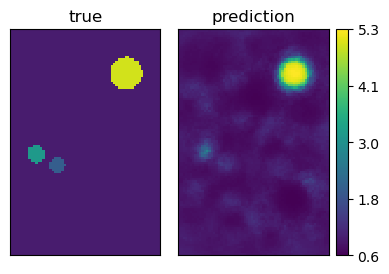
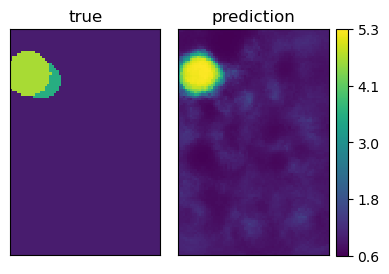
Changes to be committed: 	modified:   Figures/AppendixNew/CNN3/ex6/mu.png 	new file:   Figures/AppendixNew/CNN3/munumbers.txt 	new file:   Figures/Results2New/munumbers.txt 	new file:   Figures/Results3New/munumbers.txt 	modified:   Figures/prepostnew.png 	modified:   Figures/registnew.png 	modified

diff --git a/TeX_ML/ei_ml_arxiv/ei_ml_arxiv2.tex b/TeX_ML/ei_ml_arxiv/ei_ml_arxiv2.tex
@@ -56,7 +56,7 @@
 %}  
 \begin{document}
 % bib
-\title{Elasticity imaging using a Convolutional Neural Network: Initial results}
+\title{Elasticity imaging using a Convolutional Neural Network}
 \author{Nachiket Gokhale\footnote{The author is very grateful to Paul Barbone (Professor, Mechanical Engineering, Boston University, Boston, MA, USA.) for patiently answering many questions about finite elements and for his constructive comments on an earlier version of this document. Conversations with Arnab Majumdar (ArcVisions, Kolkata, India), Michael Richards (Assistant Professor, Department of Biomedical Engineering, Kate Gleason College of Engineering, Rochester Institute of Technology, Rochester, NY, USA) and Mandar Kulkarni (Houston, TX, USA) are gratefully acknowledged and appreciated.}\\gokhalen@gmail.com\\Pune, India.}
 \date{\today}
 \maketitle
@@ -124,7 +124,7 @@ In this work, the finite element solver \cite{misc:fypy} and associated scripts 
 \subsection{Review}
 In recent years, neural networks have been applied to various applications such as image classification \cite{paper:hinton2017}, hand written digit recognition \cite{paper:kulkarni2018}, solving differential equations and symbolic integration \cite{misc:lample2019}, solving complex partial differential equations such as the Navier-Stokes equation \cite{misc:anandkumar2020}, self-driving cars \cite{misc:agnihotri2019,misc:nvidiaselfdriving2016}, chaos \cite{paper:pathak2018}, natural language processing \cite{misc:googlenlp}, face recognition \cite{conf:taigman2014} and playing board games such as chess \cite{paper:alphazero}. Several effective Machine Learning frameworks such as Google's TensorFlow \cite{misc:tensorflow} (which we use in this work), Facebook's PyTorch \cite{incollect:pytorch}, Scikit-Learn \cite{paper:scikit-learn} are freely available. See \cite{misc:compdeep} for a complete list. We do not cover the theory of neural networks in this work. We refer the interested reader to \cite{book:aggarwal,book:goodfellow,book:chollet,misc:cs231n,misc:andrewng,misc:udemy} and references therein for detailed information about neural networks.
 \subsection{Neural networks and elasticity imaging}
-Given the success achieved by neural networks on the wide variety of applications cited in the previous section, it is natural to explore the application of neural networks to the inverse problem of elasticity imaging and several recent efforts \cite{paper:pateloberai2019,misc:gu2020,paper:hoeriginsana2016} have done so. In \cite{paper:pateloberai2019}, the authors use a convolutional neural network to classify specimens into elastically heterogeneous or elastically nonlinear. In \cite{paper:hoeriginsana2016}, the authors use a neural network to estimate strains and stress and then calculate elastic parameters. In \cite{misc:gu2020}, the authors use a neural network which predicts elasticity distributions using residual force maps to update the weights of the neural network.
+Given the success achieved by neural networks on the wide variety of applications cited in the previous section, it is natural to explore the application of neural networks to the inverse problem of elasticity imaging and several recent efforts \cite{paper:pateloberai2019,misc:gu2020,paper:hoeriginsana2016} have done so. In \cite{paper:pateloberai2019}, the authors use a convolutional neural network to classify specimens into elastically heterogeneous or elastically nonlinear. Their goal is to move directly from displacements to diagnosis, circumventing the solution of the elasticity imaging inverse problem. In \cite{paper:hoeriginsana2016}, the authors use a neural network to estimate strains and stress and then calculate elastic parameters. In \cite{misc:gu2020}, the authors use a neural network which predicts elasticity distributions using residual force maps to update the weights of the neural network.
 
 In contrast, in this work we compute the shear modulus field from the displacement or strain field using a CNN\footnote{We choose CNNs as opposed to other types of neural networks because of the success they have achieved in image classification \cite{paper:hinton2017}.}. There are no physical constraints involved in our work. It is purely a mapping problem from the space of displacement or strain fields to the space of the shear modulus fields. The input data for our CNN is a set of strain or displacement fields or components thereof. For each input there is a known corresponding target shear modulus field. Starting from an initial random guess of the weights, the CNN predicts shear modulus fields, compares them with the target fields to compute the loss function and its gradient with respect to the weights of the neural network. The weights are updated using the gradient in an appropriate optimization algorithm such as Adam \cite{misc:kingma2017adam}. Thus the CNN learns weights for its filters and other parameters. Using this learned information, the CNN is able to predict a shear modulus field from the input data of strain or displacement fields which is seen in figure (\ref{fig:schematic_inv}).\\
 \subsection{Need for neural networks}
@@ -158,13 +158,13 @@ Since we are working with almost incompressible linear elasticity, we know \cite
 \begin{align}
   \epsilon_{xx}+\epsilon_{yy}\approx{0} \implies \pdd{u_x}{x} + \pdd{u_y}{y} \approx{0} \label{eqn:strainincomp}. 
 \end{align}
-In addition, since our problem setup is much closer to a compression rather than shear problem, $\epsilon_{xy}$ is close to zero almost everywhere. Furthermore, $\epsilon_{xy}$ is noisy in practice because it involves differentiating $u_{x}$ which is often known inaccurately. We therefore choose to not work with $\epsilon_{xy}$. Equation (\ref{eqn:strainincomp}) links $\epsilon_{xx}$ with $\epsilon_{yy}$ and also $u_x$ with $u_y$. Therefore, effectively, there is only one independent component of strain or displacement. In elasticity imaging, we typically choose the displacement component along the direction of compression because it can be estimated much more accurately than the transverse component. Since our compression is along the $y$ direction, we therefore choose $u_y$ and $\epsilon_{yy}$ as the independent components of displacement and strain and we restrict our attention to only single channel images which represent either $u_y$ or $\epsilon_{yy}$.
+In addition, since our problem setup is much closer to a compression rather than shear problem, $\epsilon_{xy}$ is close to zero almost everywhere. Furthermore, $\epsilon_{xy}$ is noisy in practice because it involves differentiating $u_{x}$ which is often known inaccurately. We therefore choose to not work with $\epsilon_{xy}$. Equation (\ref{eqn:strainincomp}) links $\epsilon_{xx}$ with $\epsilon_{yy}$ and also $u_x$ with $u_y$. Therefore, effectively, there is only one independent component of strain or displacement. In elasticity imaging using ultrasound, we typically choose the displacement component along the direction of ultrasound propagation because it can be estimated much more accurately than the transverse component. In this work, we choose $u_y$ and $\epsilon_{yy}$ as the independent components of displacement and strain and we restrict our attention to only single channel images which represent either $u_y$ or $\epsilon_{yy}$.
 
 The \textit{loss function} is \textit{mean squared error} and the optimizer is \textit{Adam} \cite{misc:kingma2017adam} with default TensorFlow settings. After training, we choose the model with the best validation loss make predictions. No regularization or dropout is used.
 
 We train three CNNs whose parameters are are listed in table (\ref{table:cnnparams}). There are either one, two or three inclusions in the data used to train CNN1 and CNN2 and there is exactly one inclusion in the data used to train CNN3. CNN1 is tested on data similar to its training data and a cross shaped example which lies outside its training data. CNN2 is tested on data similar to its training data. CNN3 is tested on data which lies outside its training data. Specifically, we train CNN3 with data containing only one inclusion but test it on data containing $1,2$ or $3$ inclusions. 
 
-Each CNN has approximately $3.35$ million train-able parameters. We have $6000$ training images, each with $65\times97$ data points for the shear modulus. Hence, the total number of data points for the shear modulus are $6000\times97\times65=37.8$ million, approximately $11.3$ times the number of parameters being estimated. 
+Each CNN has approximately $3.3$ million train-able parameters. We have $6000$ training images, each with $65\times97$ data points for the shear modulus. Hence, the total number of data points for the shear modulus are $6000\times97\times65=37.8$ million, approximately $11$ times the number of parameters being estimated. 
 %
 \begin{center}
 \begin{table}
@@ -606,12 +606,11 @@ In this work, we have presented CNNs capable of predicting shear modulus fields 
 \subsection{Directions for future work}
 \begin{enumerate}
 \item{We believe that addition of homogeneous examples to the dataset will be a good test for the CNNs evaluated in this work. However, given that the CNNs under-predict the shear modulus of small inclusions, we believe homogeneous examples will be predicted correctly.}
-\item{We think that training the CNN with displacement or strain data generated using random values for the shear modulus at each node and seeing if it learns the inverse operator from the displacement (or strain) fields to shear modulus fields will be interesting. Training with other complex shapes for the shear modulus will also be interesting.}
+\item{We think that training the CNN with displacement or strain data generated using random values for the shear modulus at each node, or perturbing the shear modulus of only one node relative to the background, and seeing if it learns the inverse operator from the displacement (or strain) fields to shear modulus fields will be interesting. Training with other complex shapes for the shear modulus will also be interesting.}
 \item{All examples in the current work have the same boundary condition. Incorporating boundary conditions into the neural network will be an interesting advance.}
-\item{Training with examples in which shear modulus of only one node is changed relative to the background. It would be interesting, if based on this information, the CNN can process a displacement field and understand that the stiffness of only certain nodes needs to be changed.}
-\item{We see that better results are obtained for larger inclusion with larger contrast. Stiffness of smaller inclusions is under-predicted. Designing a network to accurately image small inclusions will be interesting. We note that having material properties and displacements on the same mesh may lead to unconverged displacements for smaller inclusions. These unconverged displacements will not have enough features/information to be able to predict stiffness fields from them. It may be useful to make the displacement mesh much finer than the shear modulus mesh so as to resolve features created by small inclusions. We also note that from previous experience, the adjoint method \cite{paper:oberai2003,paper:gokhale2008,paper:goenezen2011} is able to predict the small inclusions correctly using noiseless data. It appears that the adjoint method does better than CNNs on the problem of predicting small inclusions.}
+\item{We see that better results are obtained for larger inclusion with larger contrast. Stiffness of smaller inclusions and inclusions with low shear modulus is under-predicted. Designing a network to accurately image small inclusions will be interesting. We note that having material properties and displacements on the same mesh may lead to unconverged displacements for smaller inclusions. These unconverged displacements will not have enough features/information to be able to predict stiffness fields from them. It may be useful to make the displacement mesh much finer than the shear modulus mesh so as to resolve features created by small inclusions. We also note that from previous experience, the adjoint method \cite{paper:oberai2003,paper:gokhale2008,paper:goenezen2011} is able to predict the small inclusions correctly using noiseless data. It appears that the adjoint method does better than CNNs on the problem of predicting small inclusions.}
 \item{We think that Fourier analysis of these filters, as reported in \cite{paper:pateloberai2019} would be valuable. Using their technique, we can identify some filters in this work as the derivative in the $x$ or $y$ direction, but the physical meaning of the majority of filters is not clear. We believe that after understanding the physical meaning of each filter, better filters could perhaps be constructed manually. On a related note, visualization of intermediate images produced by the convolutional layers is also a promising direction.}
-\item{We have trained the CNN using examples in which the stiffness of the circular inclusion lies between $2.0$ and $5.0$. We call this the training range. The test data also contains examples in the \textit{same} range. Expanding this test range to include examples outside the training range and evaluating the performance of the CNNs will be interesting. We note that we have tested the ability of the CNN to generalize beyond its training set in section (\ref{sect:resultscnn3}), where a CNN trained only one inclusion in its training examples was evaluated on data containing one to three inclusions. We obtained reasonable performance in this case.}
+\item{We have trained the CNN using examples in which the stiffness of the circular inclusion lies between $2.0$ and $5.0$. The test data also contains examples in the \textit{same} range. Expanding the range of the test data to include examples outside the training range and evaluating the performance of the CNNs will be interesting.}
 \item{We used a simple \textit{mean squared error} (which corresponds to the square of the $L^2$ norm in the continuous case) to evaluate the loss function for the neural network. The effect of other losses corresponding to $H^1$ norm or the $L^2$ norm with the addition of the Total Variation Diminishing (TVD) norm will be interesting to evaluate. We think that, based on our experience in \cite{diss:gokhale2007}, using a loss function corresponding to the $H^1$ norm will remove the incidence of regions of low shear modulus adjacent to inclusions. However, it will also penalize sharp discontinuities in the inclusions as well. If we are training with both components of a noiseless displacement field, then one can consider a loss function which is simply the residual obtained when the predicted shear modulus and input fields are inserted into the equilibrium equations of elasticity. Implementing these loss functions will require custom loss functions in TensorFlow perhaps along with custom gradient calculation.}
 \item{Investigating different network architectures with the aim of yielding better results will be worth investigating. More CNN layers (or less), deeper (or shallower) networks, should be investigated. Other hyperparameters, such as the kernel size for the CNN layers, can be varied as well. It may be worth investigating whether a CNN is required at all and whether a simple dense network can produce similar quality results. The first dense layer contains $128$ nodes. Increasing this number will probably result in better networks, but will also increase the number of weights and hence training time. It may also be worthwhile to replace the full connection of the dense layers with spatially close connections. By this, we mean that after flattening each node in the first dense layer would be connected only to those neurons which are spatially close together in the previous layer.}
 \item{Medical image registration to obtain a displacement field is a difficult process. It would be an important advance if we could train neural networks to work directly with medical images instead of the computed displacement field. This would involve training the CNN by computing thousands of displacement fields by hand and solving an inverse problem and using the predicted shear modulus field as labeled data as input to the CNN. Additional information could be obtained by doctors interpreting medical images and identifying tumors and their mechanical properties.}
@@ -747,48 +746,48 @@ We present additional supporting results in figures (\ref{fig:app1result}),(\ref
   \begin{subfigure}[c]{\nhgappwidth}
     \centering    
     \includegraphics[totalheight=\nhgappheight]{Figures/AppendixNew/CNN3/ex1/mu.png}
-    \subcaption{\label{fig:app3resulta}}
+    \subcaption{\label{fig:app3resulta} (0.0754)}
   \end{subfigure}
   %
   \begin{subfigure}[c]{\nhgappwidth}
     \centering    
     \includegraphics[totalheight=\nhgappheight]{Figures/AppendixNew/CNN3/ex2/mu.png}
-    \subcaption{\label{fig:app3resultb}}
+    \subcaption{\label{fig:app3resultb} (0.0131)}
   \end{subfigure}
   %
   \begin{subfigure}[c]{\nhgappwidth}
     \centering
     \includegraphics[totalheight=\nhgappheight]{Figures/AppendixNew/CNN3/ex3/mu.png}
-    \subcaption{\label{fig:app3resultc} }
+    \subcaption{\label{fig:app3resultc} (0.161) }
   \end{subfigure}
   %
   \begin{subfigure}[c]{\nhgappwidth}
     \centering
     \includegraphics[totalheight=\nhgappheight]{Figures/AppendixNew/CNN3/ex4/mu.png}
-    \subcaption{\label{fig:app3resultd}}
+    \subcaption{\label{fig:app3resultd} (0.181)}
   \end{subfigure}
     \begin{subfigure}[c]{\nhgappwidth}
     \centering    
     \includegraphics[totalheight=\nhgappheight]{Figures/AppendixNew/CNN3/ex5/mu.png}
-    \subcaption{\label{fig:app3resulte}}
+    \subcaption{\label{fig:app3resulte} (0.199)}
   \end{subfigure}
   %
   \begin{subfigure}[c]{\nhgappwidth}
     \centering    
     \includegraphics[totalheight=\nhgappheight]{Figures/AppendixNew/CNN3/ex6/mu.png}
-    \subcaption{\label{fig:app3resultf}}
+    \subcaption{\label{fig:app3resultf} (0.223)}
   \end{subfigure}
   %
   \begin{subfigure}[c]{\nhgappwidth}
     \centering
     \includegraphics[totalheight=\nhgappheight]{Figures/AppendixNew/CNN3/ex7/mu.png}
-    \subcaption{\label{fig:app3resultg}}
+    \subcaption{\label{fig:app3resultg} (0.249)}
   \end{subfigure}
   %
   \begin{subfigure}[c]{\nhgappwidth}
     \centering
     \includegraphics[totalheight=\nhgappheight]{Figures/AppendixNew/CNN3/ex8/mu.png}
-    \subcaption{\label{fig:app3resulth}}
+    \subcaption{\label{fig:app3resulth} (0.305)}
   \end{subfigure}
 \caption{\label{fig:app3result} Additional results for CNN3 in increasing order of the scaled error (in brackets) as defined in equation (\ref{eqn:scalederror}). True results are on the left and predictions on the right.}  
 \end{figure}
